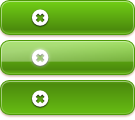
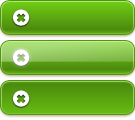
better label alignment. will work for large labels
git-svn-id: https://forgesvn1.novell.com/svn/opensuse-art/trunk@34 95aa0454-cf36-0410-a201-bdd6ffda1122

Changed region(s): [[0.0889, 0.4, 0.3852, 0.575], [0.0889, 0.75, 0.3852, 0.9], [0.0889, 0.075, 0.3852, 0.225]]

diff --git a/greeter/suse.css b/greeter/suse.css
@@ -77,10 +77,17 @@ ul li {
 		#button:focus { background-position: 0px -40px; }
 		#button:hover { background-position: 0px -40px; }
 		#button:active { background-position: 0px -80px; }
+		
+		#button div {
+			text-align: center;
+			margin: 0px;
+			padding: 0px 0px 0px 8px;
+			width: 100%;
+		}
 
 		#button i18n {
 			display: block;
 			color: white;
 			font-weight: bold;
-			padding: 10px 0px 0px 55px;
+			margin-top: 10px;
 		}
